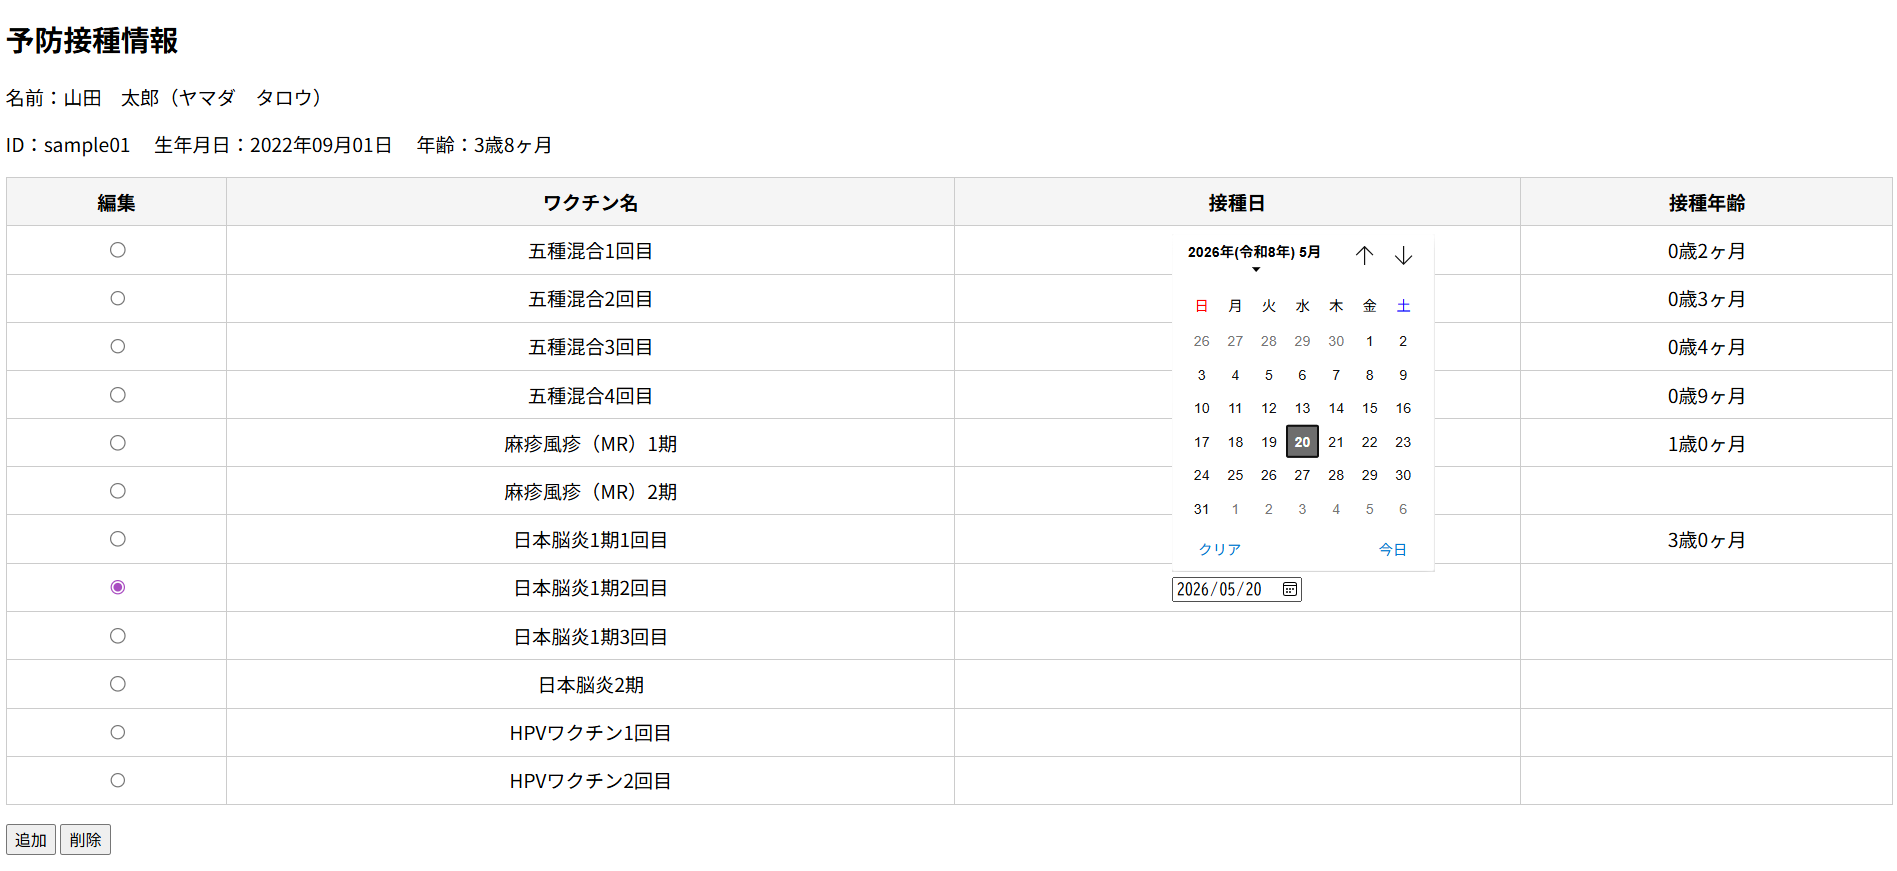
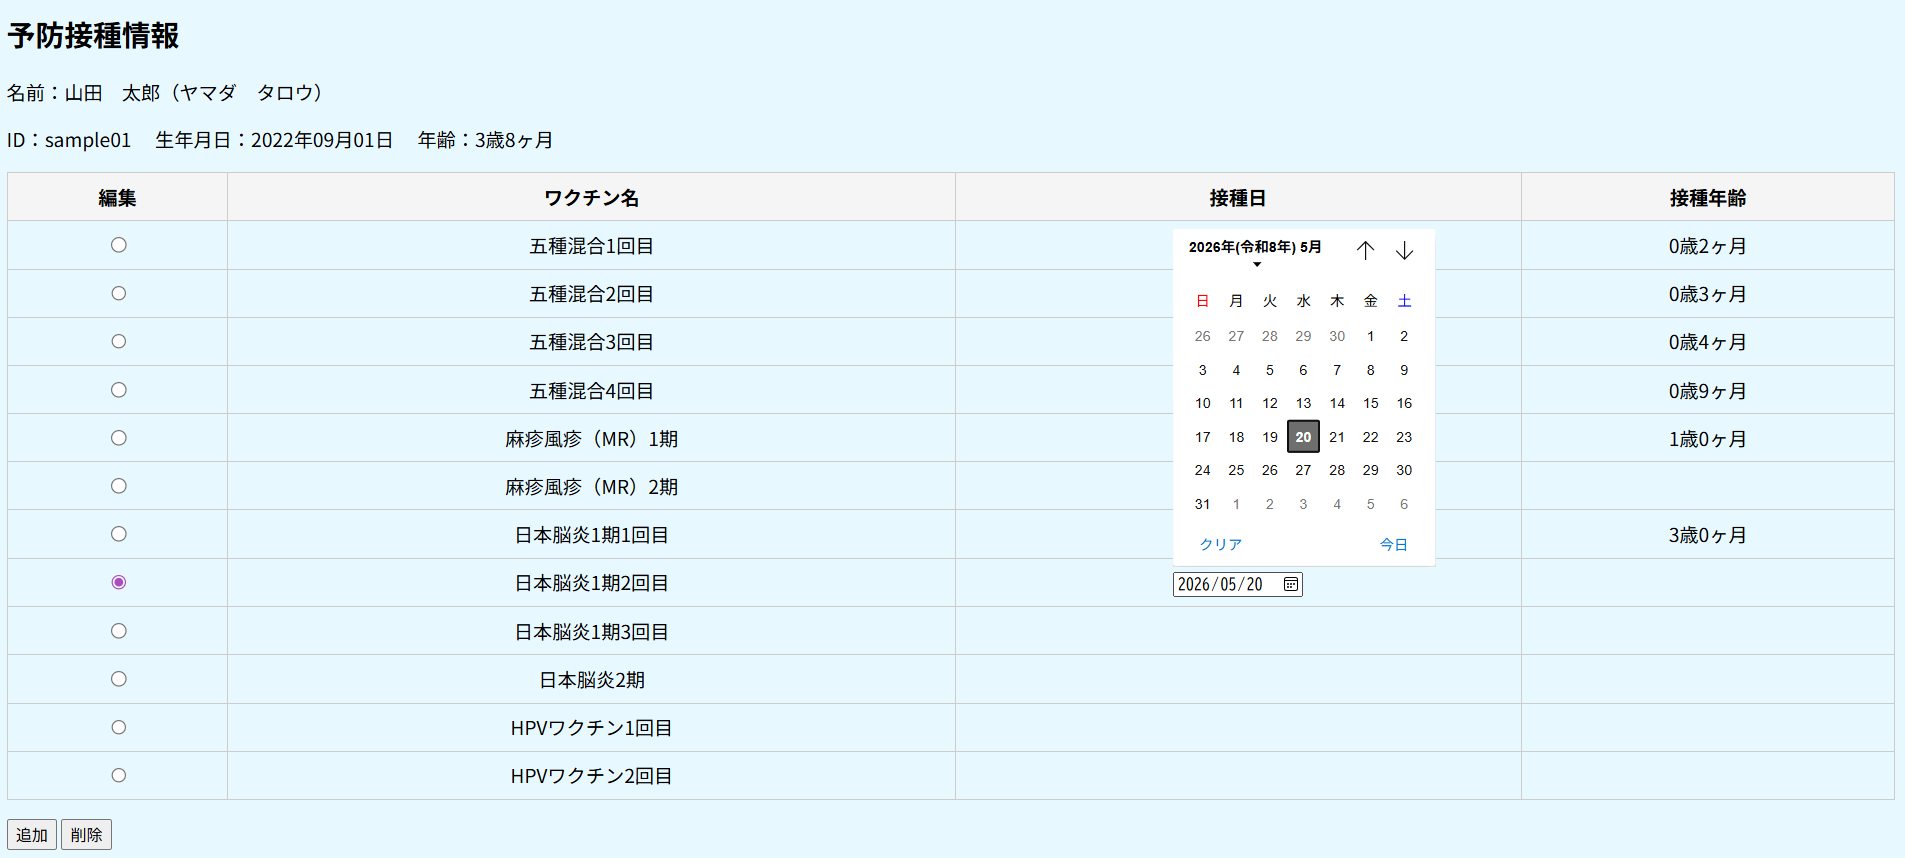
背景色を追加してUIを改善

diff --git a/child_health_app/templates/vaccination.html b/child_health_app/templates/vaccination.html
@@ -5,7 +5,6 @@
     <title>予防接種情報</title>
 
     <style>
-        /* テーブルの見やすい枠線 */
         .vac-table {
             width: 100%;
             border-collapse: collapse;
@@ -24,10 +23,13 @@
             font-weight: bold;
         }
 
-        /* 戻るボタンの位置調整 */
         .back-area {
             margin-top: 1.5em;
         }
+
+        body {
+        background-color: #ffffeb;
+    }
     </style>
 </head>
 

diff --git a/clinic_app/templates/vaccination.html b/clinic_app/templates/vaccination.html
@@ -17,8 +17,9 @@
             padding: 20px;
             z-index: 1000;
         }
-
-        /* ▼ 追加：テーブルの枠線と見やすいデザイン */
+        body {
+            background-color: #e7f8ff;
+        }
         .vac-table {
             width: 100%;
             border-collapse: collapse;

diff --git a/child_health_app/templates/login.html b/child_health_app/templates/login.html
@@ -8,6 +8,9 @@
         body {
             font-family: sans-serif;
             margin: 20px;
+
+            background-color: #ffffeb;
+
         }
 
         .vac-table {

diff --git a/child_health_app/templates/mypage.html b/child_health_app/templates/mypage.html
@@ -8,6 +8,8 @@
         body {
             font-family: sans-serif;
             margin: 20px;
+
+            background-color: #ffffeb;
         }
 
         .vac-table {

diff --git a/clinic_app/templates/login.html b/clinic_app/templates/login.html
@@ -8,6 +8,8 @@
         body {
             font-family: sans-serif;
             margin: 20px;
+
+            background-color: #e7f8ff;
         }
 
         .vac-table {

diff --git a/clinic_app/templates/search.html b/clinic_app/templates/search.html
@@ -8,6 +8,8 @@
         body {
             font-family: sans-serif;
             margin: 20px;
+
+            background-color: #e7f8ff;
         }
 
         .vac-table {
